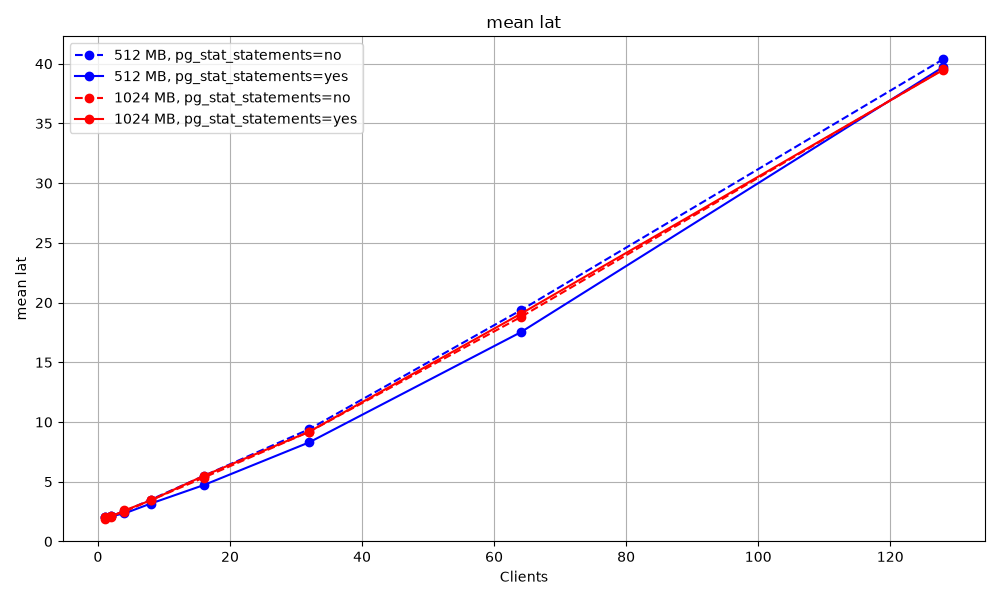
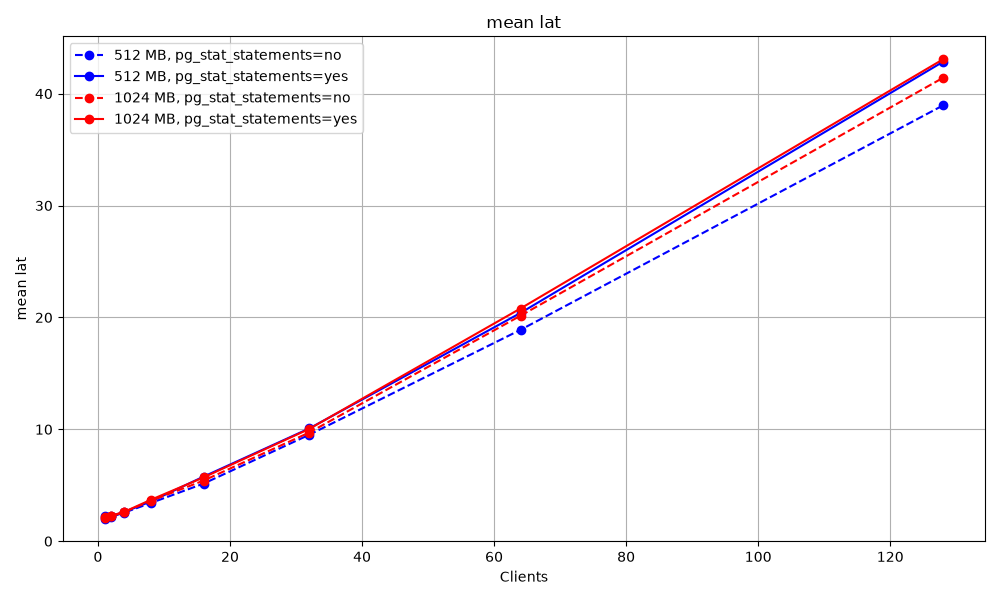
task 5: bugfixes, report revision

diff --git a/Auto/pgbench/pgbench_config.py b/Auto/pgbench/pgbench_config.py
@@ -17,8 +17,9 @@ host = 'localhost'
 port = '5432'
 user = 'admin'
 
-pgdata = Path(__file__).resolve().parent / "../../Data/pgbench_master"
+pgdata_name = 'pgbench_master'
+pgdata = Path(__file__).resolve().parent / f"../../Data/{pgdata_name}"
 path_to_postgres_conf = pgdata / 'postgresql.conf'
 
 #reports:
-reports_path = Path(__file__).resolve().parent / "reports"
+reports_path = Path(__file__).resolve().parent / "reports_master"

diff --git a/Auto/pgbench/pgbench.py b/Auto/pgbench/pgbench.py
@@ -81,7 +81,7 @@ def run():
             for client_num in client_nums:
                 for i in iters:
                     result = [i] + bench(client_num)
-                    save(result, (reports_path / f'S{shared_buffer}L{int(lib=='')}C{client_num}.report'))
+                    save(result, (reports_path / f'S{shared_buffer}L{int(lib!='')}C{client_num}.report'))
             shutdown(lib)
 
 def clear():

diff --git a/Reports/Stage 1/Task 5/report.md b/Reports/Stage 1/Task 5/report.md
@@ -175,12 +175,8 @@ pgbench_test=#
 \========================================================
     Поскольку база полностью помещается лишь в буффер, размером не меньшим 828 мб, кажется, будто бы конфигурация shared_buffers=512мб должна уступать по производительности shared_buffers=1024мб. Однако это далеко не всегда так: если наиболее актуальные страницы помещаются в 512 мб, а к остальным страницам доступ осуществляется довольно редко, производительность может быть практически равной. И, как видно из графиков, разница между ними может быть меньше шума. Но если буфферного кеша не хватает на все актуальные страницы, то из-за промахов по кешу производительность может действительно быть ниже.
 
-    Мне кажется, некоторая странность в результатах теста обусловлена лишь тем, что на моей машине
-    значительную роль играет очерёдность запуска тестов (из-за перегрева ЦП и троттлинга в следствие)
-    Очевидно, использование pg_stat_statements создаёт накладные расходы, поскольку он собирает метрики выполнения SQL запросов.
-    
-    Как вариант, можно попробовать запускать на более охлаждаемой машине, небольшими партиями, в случайном порядке. Тогда шум будет распреляться равномерно на все входные данные, и это позволит организовать тестирование более честным образом.
+    После исправления критического бага картина стала ожидаемой: на большом количестве подключений включение библиотеки pg_stat_statements оказывало неблагоприятное влияние на производителность. TPS падал примерно на 10%, как видно из графиков. Однако такое поведение может быть также связано с троттлингом процессора при перегреве. Поэтому тестирование лучше проводить на независимой и хорошо охлаждаемой машине. Небольшими партиями, в случайном порядке конфигурации. Тогда шум будет распреляться равномерно на все входные данные, и это позволит организовать тестирование более честным образом.
 
-    Смотря на графики довольно сложно определить однозначного лидера, потому что во-первых некоторые показатели кажутся не логичными, а во-вторых на разных участках графика лидерство имеют разные конфигурации запуска тестов.
+    Исходя из графиков, при количестве подключений > 16 по производительности выбивается конфигурация с выключенной библиотекой и shared_buffers=512MB (PostgreSQL, 17.11), остальные конфигурации имеют схожее поведение. PostgreSQL, 20devel: конфигурация без библиотеки и с shared_buffers=1024 при количестве соединений > 16 теперь выглядит более производительной, занимает второе место по количеству TPS, однако конфигурация shared_buffers=512MB без библиотеки показала себя лучше.  
 
-    После сравнения результатов тестирования, можно сказать, что в последней версии 20devel была проделана работа, повышающая общую производительность. Поскольку TPS повысился, а latency стала чуть меньше в каждой конфигурации теста.
+    После сравнения результатов тестирования, можно сказать, что в последняя версия (20devel) показывает себя лучше при некоторых конфигурациях тестирования. Вероятно, между 17 и 20devel версиями была проделана работа по увеличению производительности
